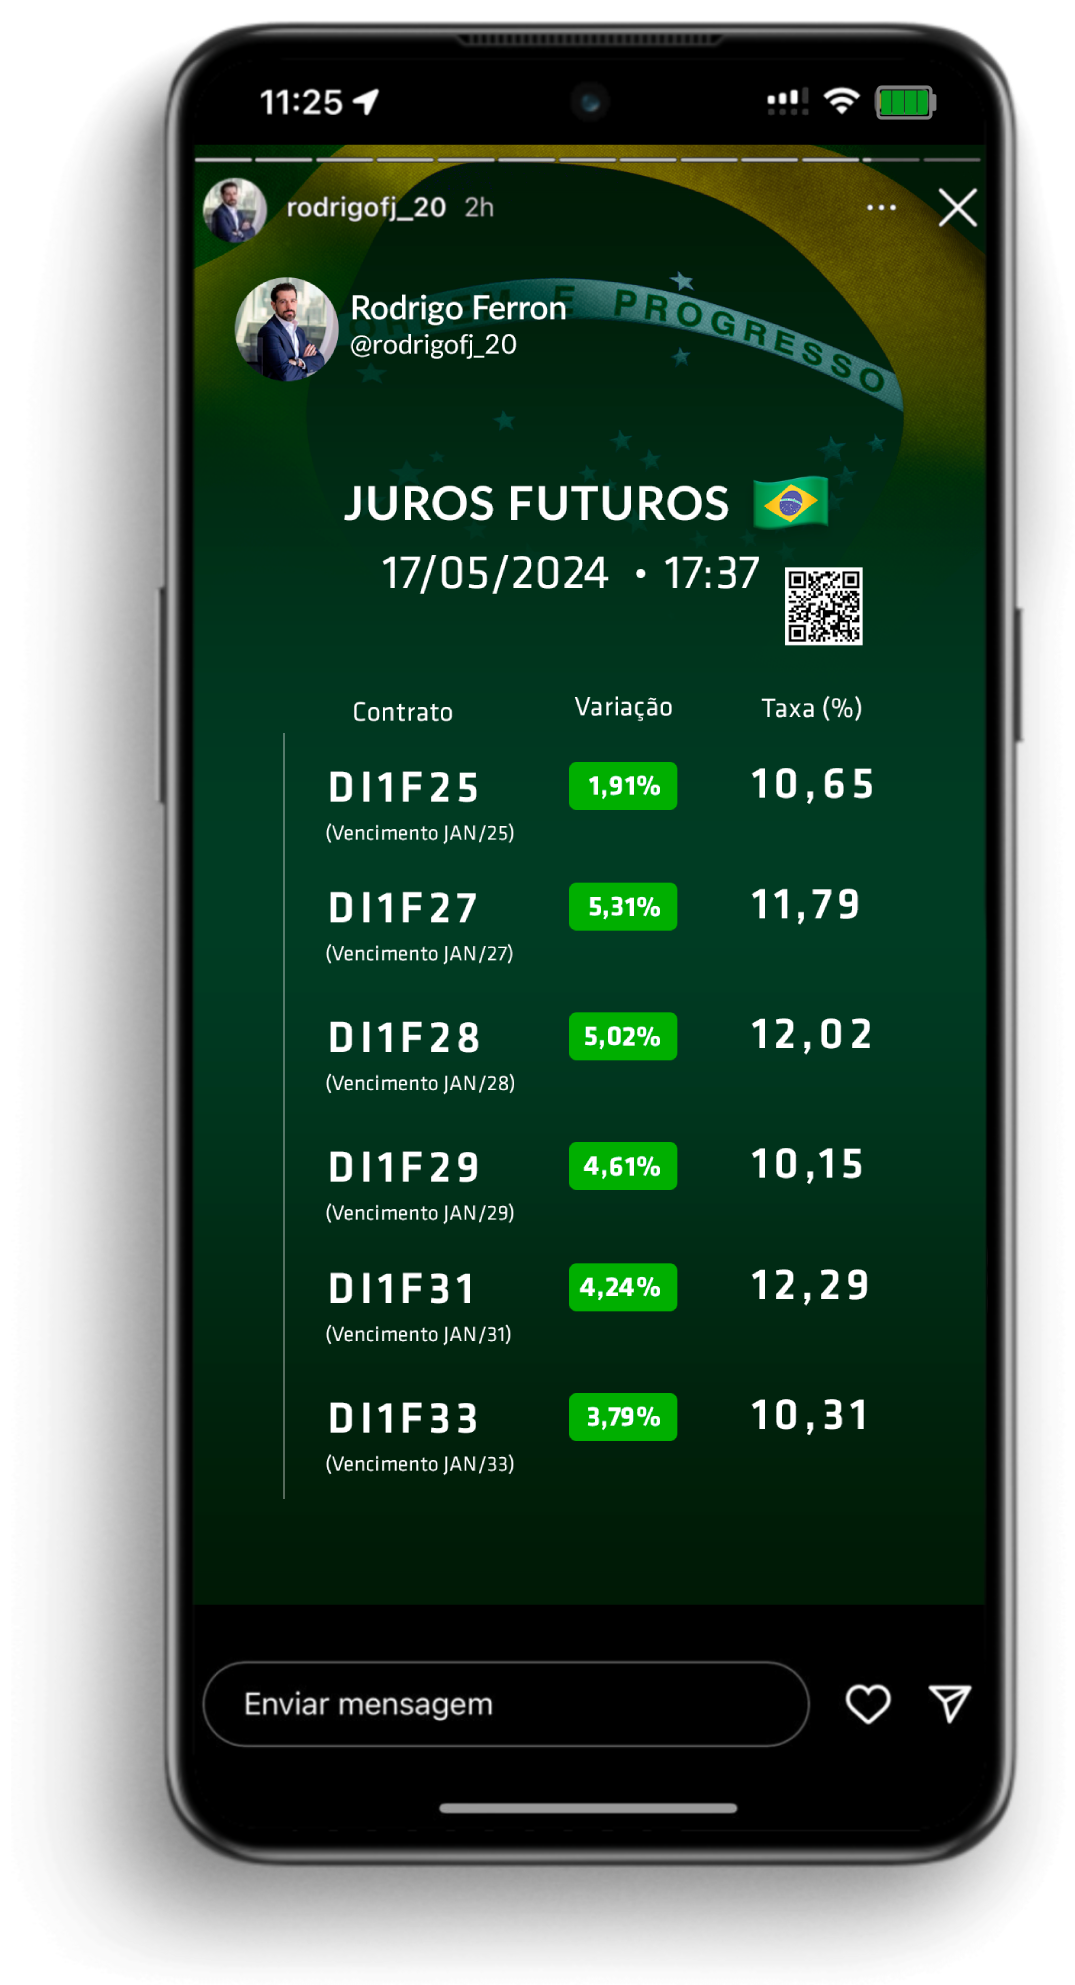
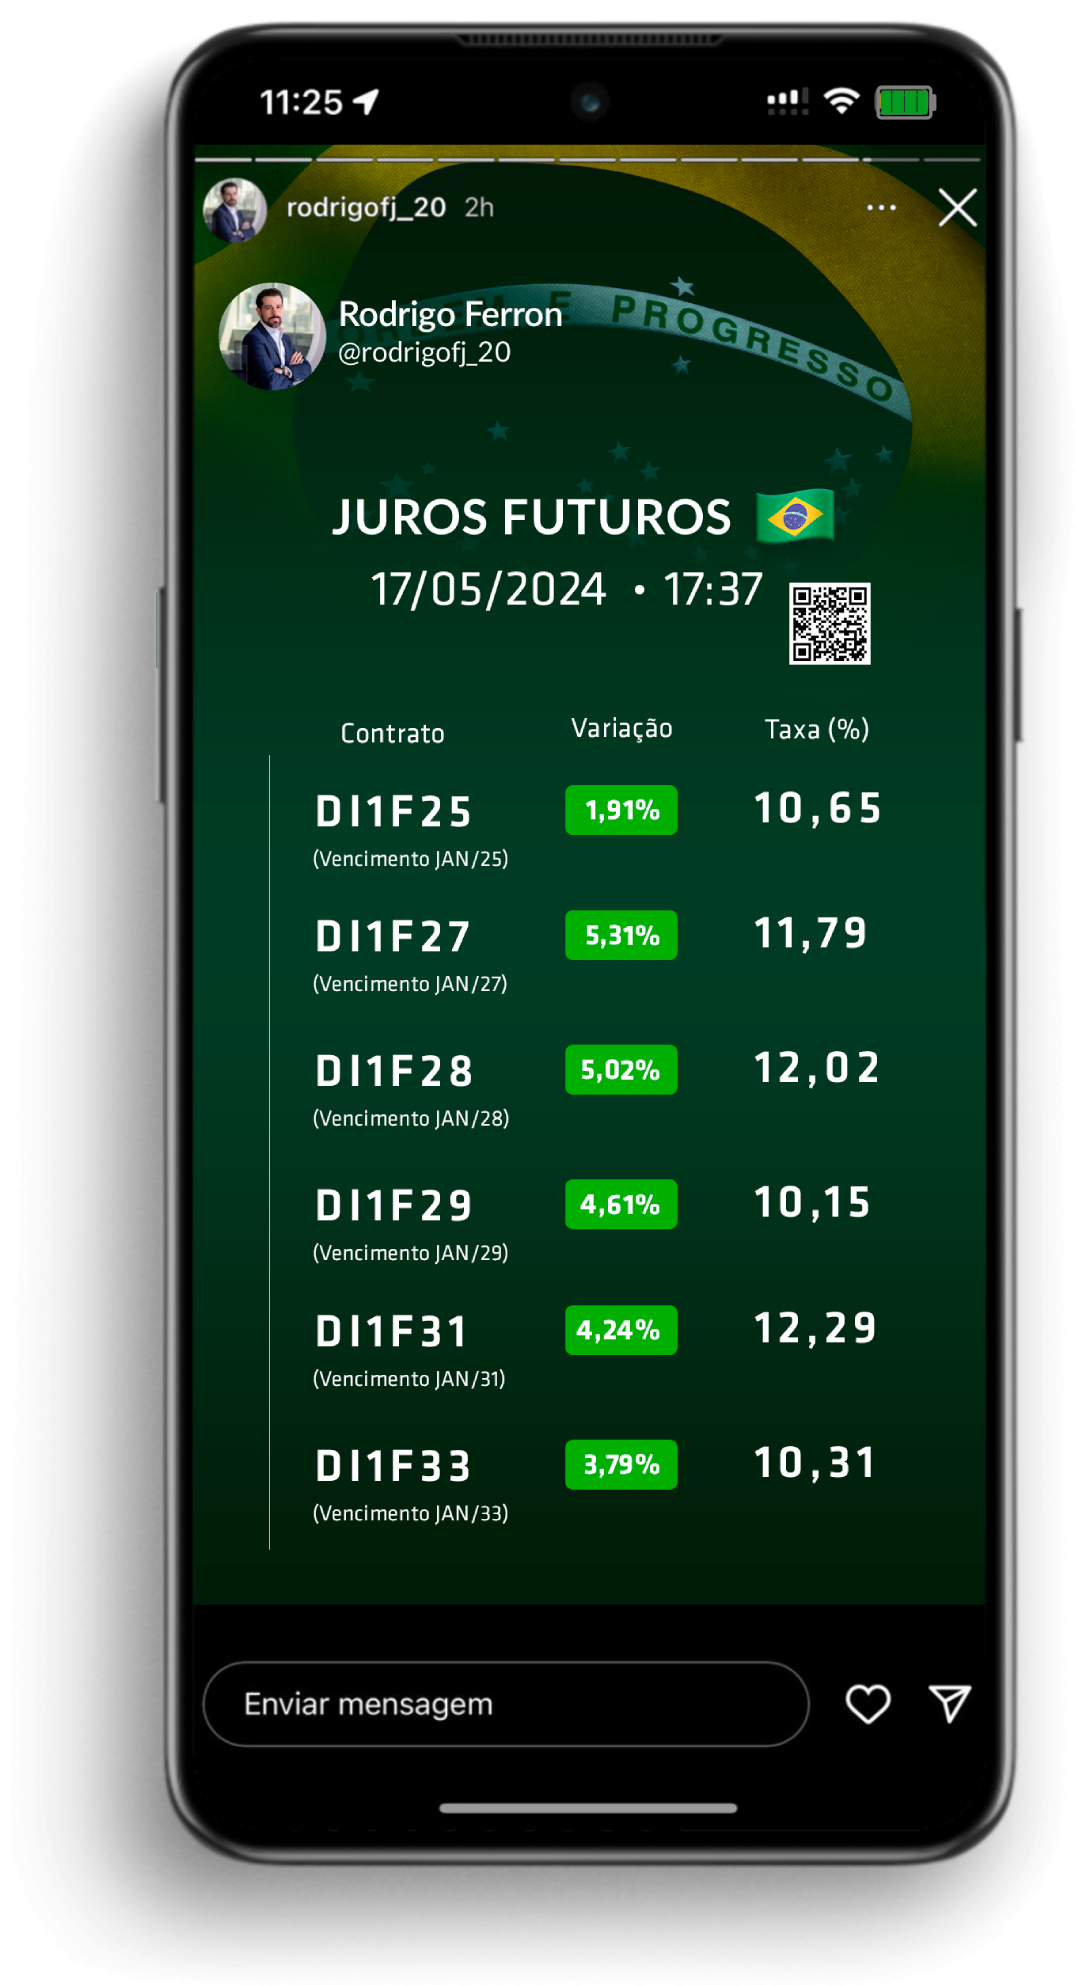
22

diff --git a/src/app/parts/index/index.component.html b/src/app/parts/index/index.component.html
@@ -836,13 +836,15 @@
                         src="../../../assets/img/feed-fecha-azul.png" alt="" class="img-conteudo"></a>
                 <a class="carousel-item no-opacity carousel-conteudo carousel-conteudo-feed" href="#one!"> <img
                         src="../../../assets/img/feed-fecha-vermelha.png" alt="" class="img-conteudo"></a>
+                        <a class="carousel-item no-opacity carousel-conteudo carousel-conteudo-feed" href="#one!"> <img
+                            src="../../../assets/img/feedJurosFuturos.png" alt="" class="img-conteudo"></a>
        
                         <a class="carousel-item no-opacity carousel-conteudo carousel-conteudo-feed" href="#one!"> <img
-                            src="../../../assets/img/feed-relatorio (1).png" alt="" class="img-conteudo"></a>
+                            src="../../../assets/img/feedRelatorioFocusP2.png" alt="" class="img-conteudo"></a>
                         <a class="carousel-item no-opacity carousel-conteudo carousel-conteudo-feed" href="#one!"> <img
-                            src="../../../assets/img/feed-tesouro1.png" alt="" class="img-conteudo"></a>
+                            src="../../../assets/img/feedTesouroDireto2P2.png" alt="" class="img-conteudo"></a>
                             <a class="carousel-item no-opacity carousel-conteudo carousel-conteudo-feed" href="#one!"> <img
-                                src="../../../assets/img/feed-tesouro2.png" alt="" class="img-conteudo"></a>
+                                src="../../../assets/img/feedTesouroDiretoP2.png" alt="" class="img-conteudo"></a>
 
             </div>
             <div class=" escrito-feeds">

diff --git a/src/app/parts/index/pagamento/pagamento.component.html b/src/app/parts/index/pagamento/pagamento.component.html
@@ -316,7 +316,7 @@
                                     <img src="../../../assets/img/brasilAgoraP2.png" alt="" class="item-slide-cadastro ">
                                 </swiper-slide>
                                 <swiper-slide>
-                                    <img src="../../../assets/img/jurosFuturosP2" alt="" class="item-slide-cadastro ">
+                                    <img src="../../../assets/img/jurosFuturosp2.png" alt="" class="item-slide-cadastro ">
                                 </swiper-slide>
                                 <swiper-slide>
                                     <img src="../../../assets/img/minerioFerroP.png" alt="" class="item-slide-cadastro">
